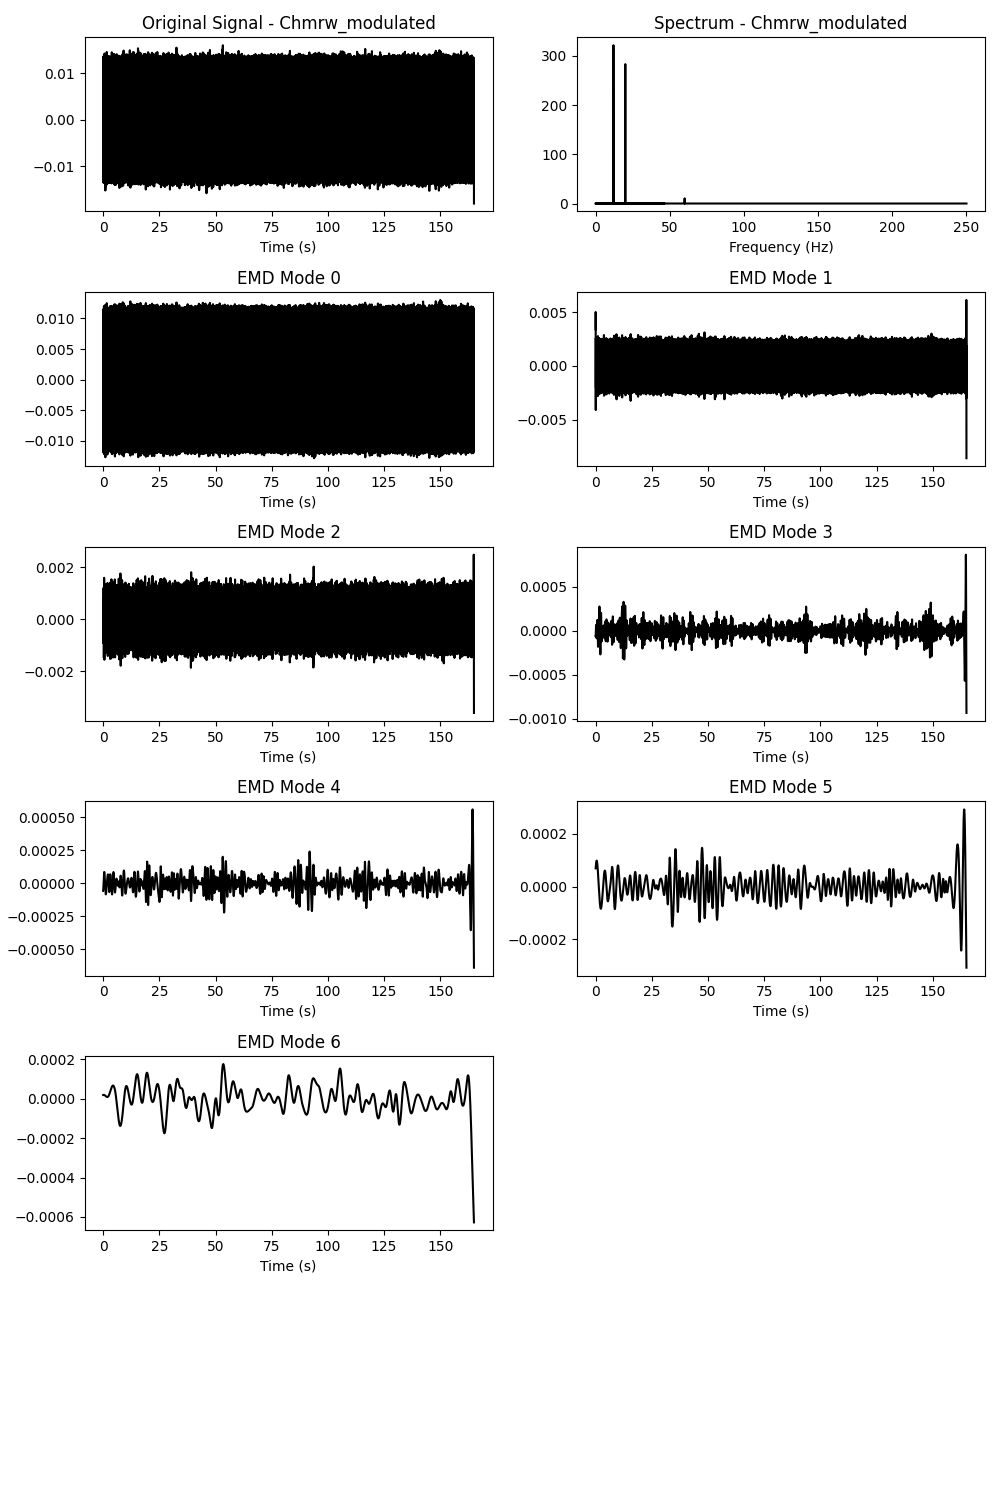
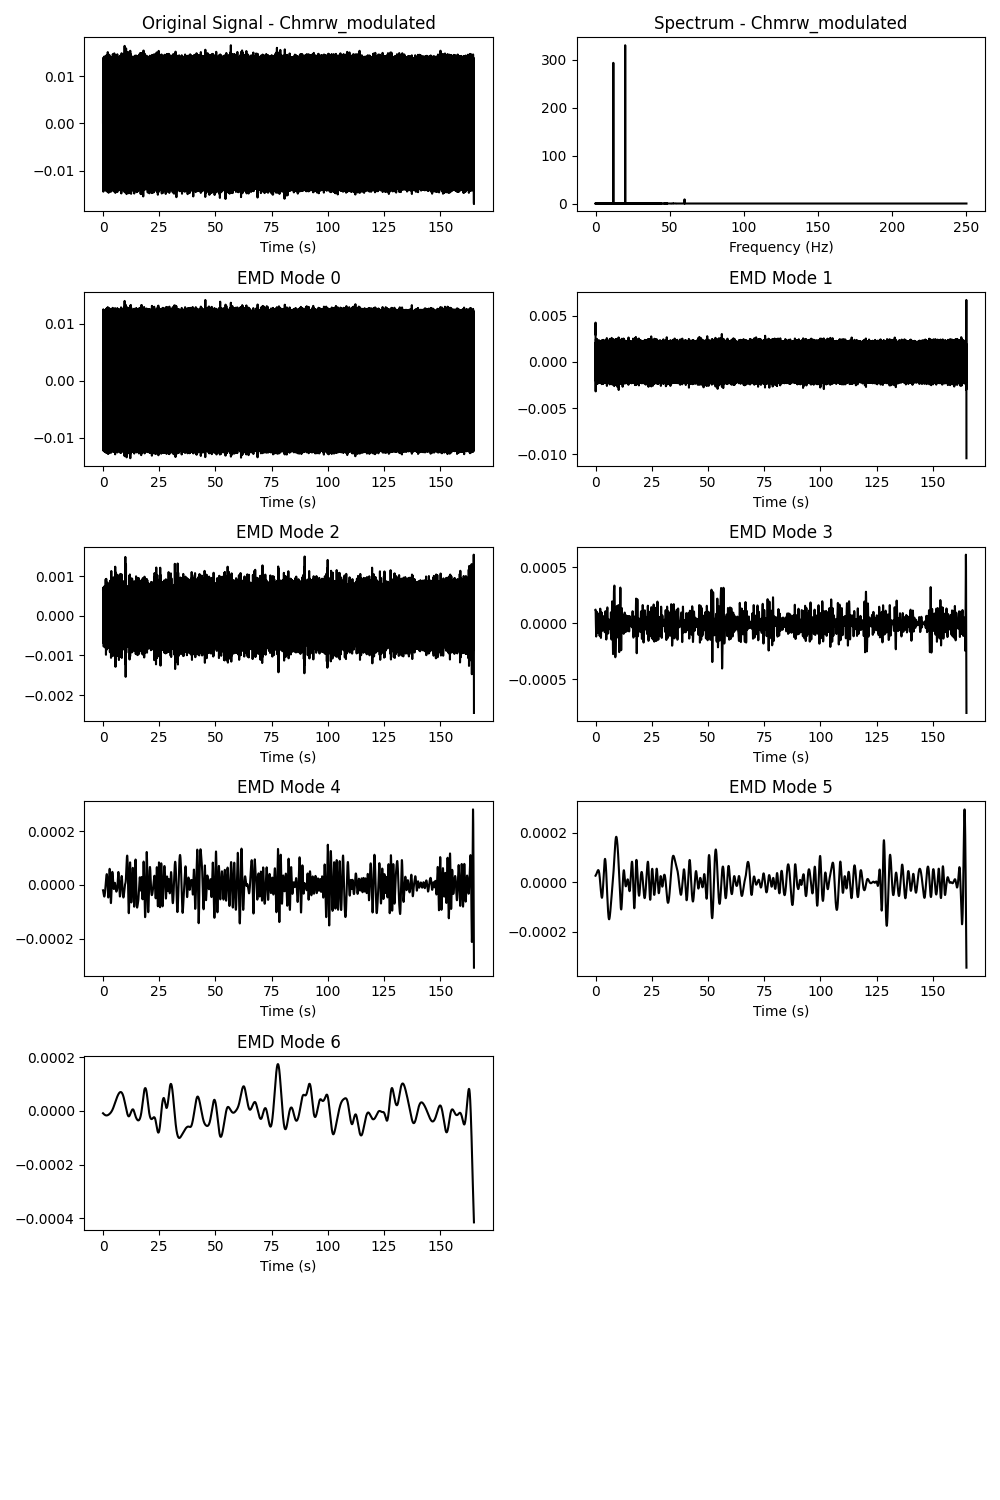
add files

diff --git a/notebooks/03_signal_generation/signal_gen.py b/notebooks/03_signal_generation/signal_gen.py
@@ -4,7 +4,7 @@ from pymultifracs.simul import mrw, mrw_cumul
 
 def generate_synthetic_neural_signal(fs=250, n_samples=82500, frequencies=[6, 10, 30, 80], 
                                         c1=0.7, c2=-0.04, add_one_over_f=True, add_powerline=True, 
-                                        one_over_f_slope=-1.0, noise_power_factor=1e6):
+                                        one_over_f_slope=-1.0, noise_power_factor=1e5):
     t = np.arange(n_samples) / fs
     modulated_components = []
     L = n_samples + 1  # For diff

diff --git a/notebooks/03_signal_generation/decomposition_and_features.py b/notebooks/03_signal_generation/decomposition_and_features.py
@@ -141,7 +141,6 @@ def plot_signal_and_modes(x, sfreq, modes, method, ch, output_dir, duration=None
     plt.savefig(os.path.join(method_fig_dir, f'channel_{ch}_{method}_overview.png'))
     plt.close()
 
-
 def plot_mvmd_grid(signal_data, mvmd_result, sfreq, output_path, downsample=True, max_points=5000):
 
     K, T, C = mvmd_result.shape
